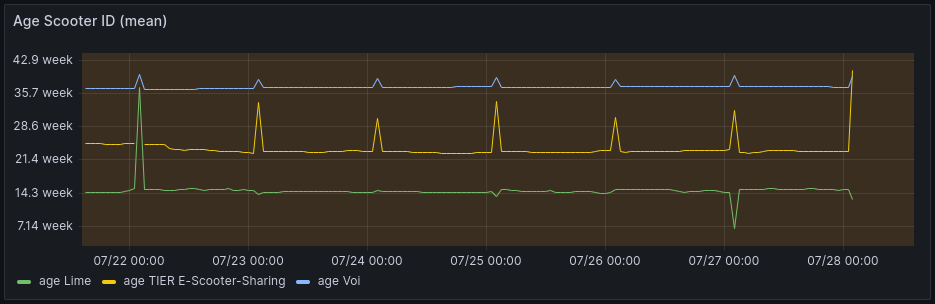
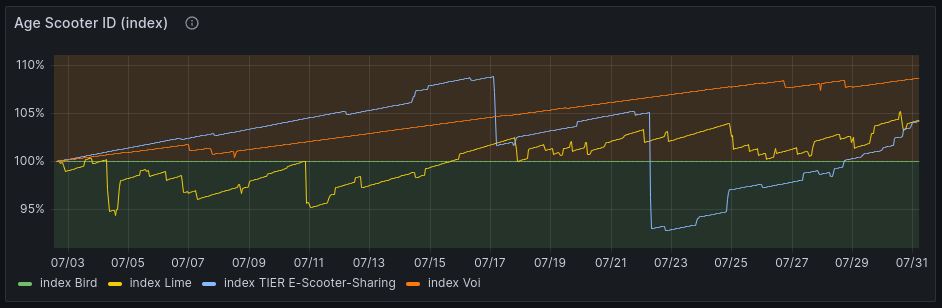
Modified scooter age to show index

diff --git a/content/escooter/dashboard_overview_wthur.md b/content/escooter/dashboard_overview_wthur.md
@@ -237,7 +237,6 @@ When the time difference rises for all the provider (and not just for one provde
 #### Chart: Age Scooter ID
 ![chart age scooter id](../images/chart_age_scooter_id.png)
 
-Shows the average age of a scooter over time. As long as the average age raises over time, the calculation of paths can be performed more correctly. When the average age of scooter stays the same or even decreases, this can be an indicator, that scooter trips cannot be performed correctly. In this case, the moving scooter section has be looked ad with caution.
-
+Shows the average age of the scooters, grouped by provider. The values are displayed as index with base = 100% for the beginning of the time window. As long as the average age raises over time, this indicates, that the scooter IDs do not change very often. In this case, the calculation of paths can be performed more correctly. When the average age of scooter stays the same or even decreases, this can be an indicator, that scooter trips cannot be performed correctly. In this case, the moving scooter section has be looked ad with caution. When the time window selection ends on the current day, scooter ID age can suddenly drop. This is because of the limited datapoints at the last performed data calculation at 02:05 UTC.
 
 
